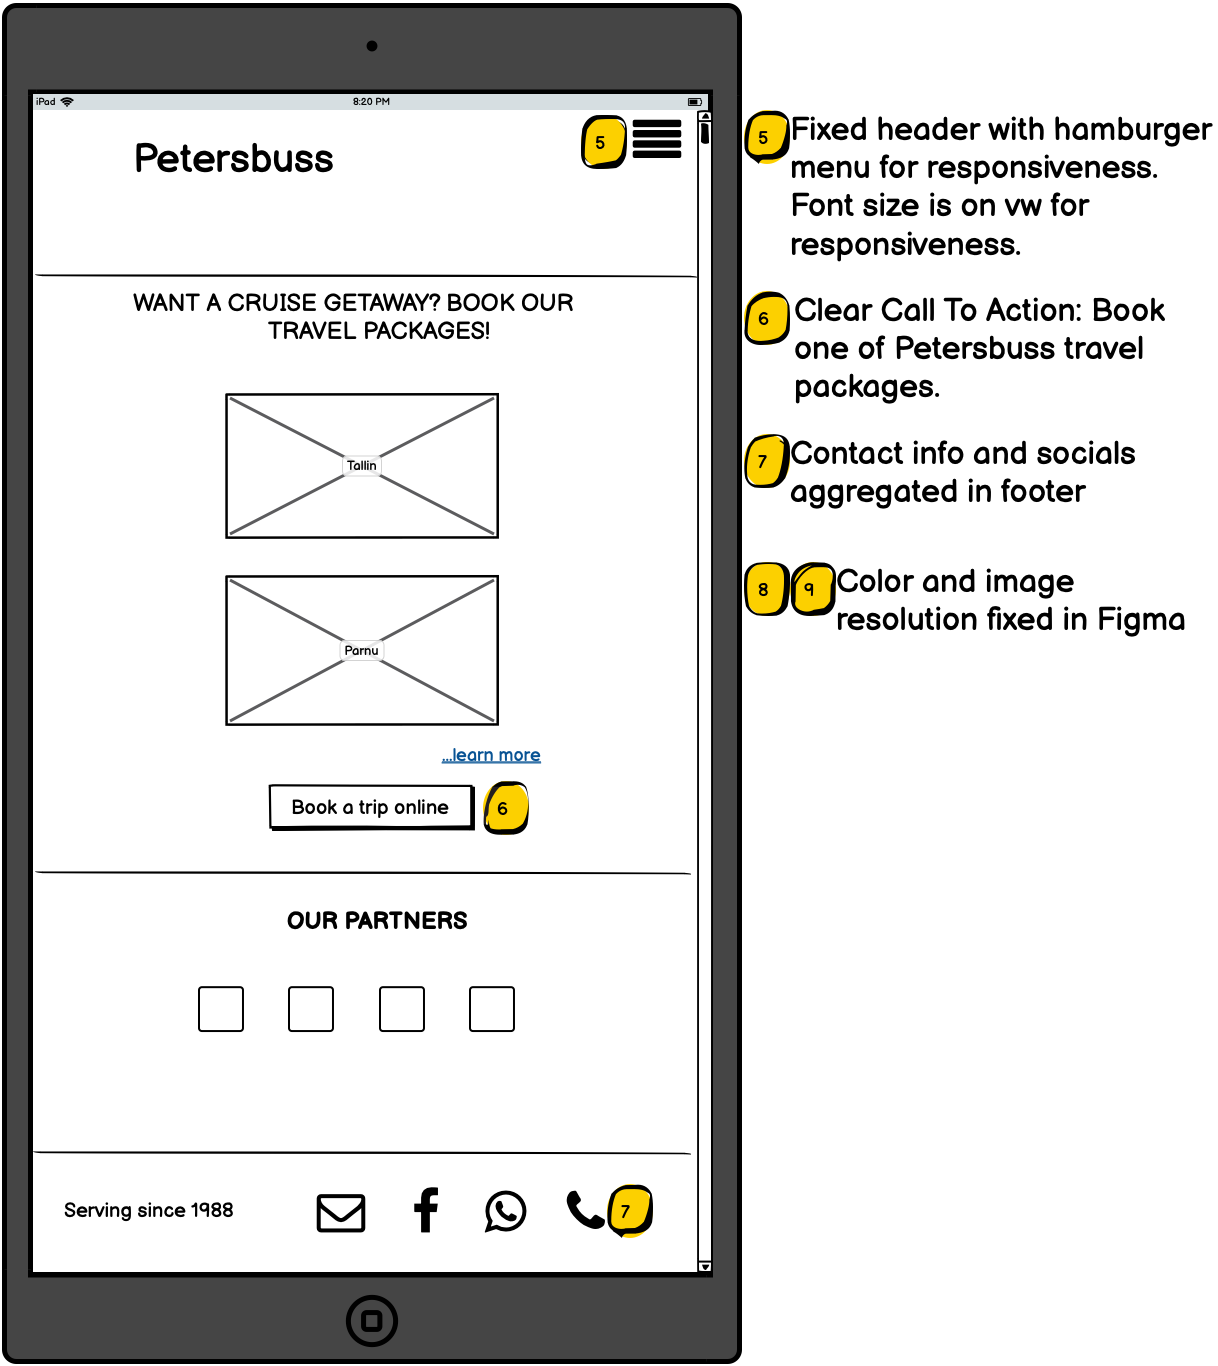
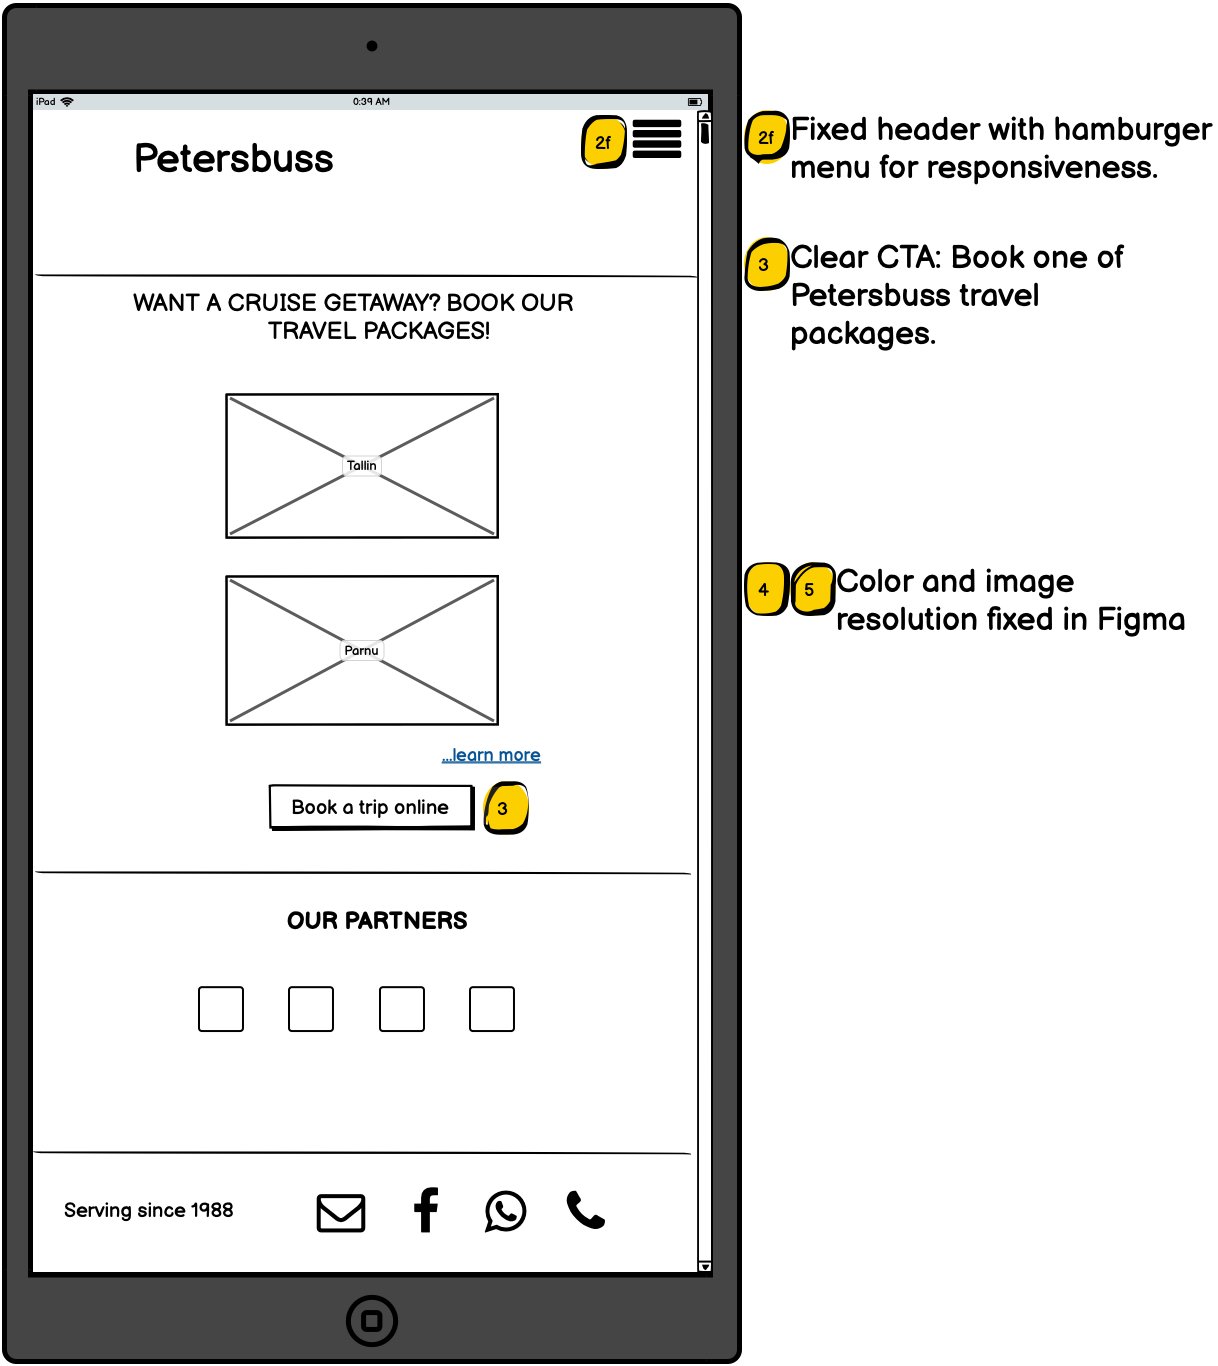
reduced problems

Changed region(s): [[0.5928, 0.123, 0.9672, 0.369], [0.4992, 0.8609, 0.5616, 0.9224]]

diff --git a/home.html b/home.html
@@ -19,15 +19,17 @@
 
 <div class="w3-container w3-padding-32" id="projects">
   <p style="color: #ffffff; font-family: DomaineDisplay, Georgia, serif;
-  font-size: 20px; text-align: center;"> Responsive Redesign is one of the projects for my UIUX class. We were assigned the task of choosing a not so good website, analyse usability, learnability, and memorability problems, create lofi and hifi prototypes and then finally recreate the website accordingly. I chose the following website and I honestly didn't even know where to start. </p>
+  font-size: 20px; text-align: center;"> In this project, I chose a Swedish travel agency website (translated below) to redesign responsively. When I first visited Peterbuss, I had no clue what it was for. After examining it, I noted down problems I had with the website. </p>
 </div>
 
 <div class="containerInterface">
   
   <div class="galleryInterface">
-    <div class="gallery">
-      <h1 class="desc"><a href="http://www.petersbuss.se/">Chosen Website: Petersbuss <i class="fa fa-external-link"></i></a></h1>
-<img class="gallery-item" style="width: 40vw; height: 30vw" src="./images/website.png" alt="Screenshot of Petersbuss website">
+    <h1 class="desc"><a href="http://www.petersbuss.se/">Chosen Website: Petersbuss <i class="fa fa-external-link"></i></a></h1>
+    <div class="galleryInterface">
+      
+<img class="gallery-item" style="width: 30vw; height: 20vw" src="./images/website.png" alt="Screenshot of Petersbuss website">
+<img class="gallery-item" style="width: 30vw; height: 20vw" src="./images/website2.png" alt="Screenshot of Petersbuss website">
     </div>
 
     <hr>
@@ -40,13 +42,9 @@
           <li style="font-family: DomaineDisplay, Georgia, serif;"><h3 class="noBackground"><b>Usability, Learnability, and Memorability</b></h3></li>
           <ol style="max-width: 85%;">
             <li><p class="bullet">There's no clear text hierarchy. Font size is sometimes too small.</p></li>
-            <li><p class="bullet">Home page is cluttered with a lot of information</p></li>
-            <li><p class="bullet">Navigation is confusing with too many links in home page.</p></li>
-            <li><p class="bullet">Webpage doesn't use common terms.</p></li>
-            <li><p class="bullet">Webpage is not responsive</p></li>
-            <li><p class="bullet">There's no clear call to action.</p></li>
-            <li><p class="bullet">The contact information is spread out.</p></li>
-<li><p class="bullet">There are too many unnecessary colors.</p></li>
+            <li><p class="bullet">Home page is cluttered with a lot of unsegregated information making navigation hard</p></li>
+            <li><p class="bullet">The objective of the website (CTA) is not clear.</p></li>
+            <li><p class="bullet">There are too many unnecessary colors.</p></li>
           <li><p class="bullet">The images on the home page are low resolution and have distracting backgrounds</p></li>
 
 </ol>
@@ -56,7 +54,7 @@
           <li><p class="bullet">Missing alt text for images due to which screen reader cannot interpret correctly.</p></li>
 
 <li><p class="bullet">Very low contrast</p></li>
-        <li><p class="bullet">No heading structure and page regions to provide navigation functionality to assistive technology users</p></li>
+        <li><p class="bullet">No page regions to provide navigation functionality to assistive technology users</p></li>
 
 </ol>         
         </ul>
@@ -66,7 +64,7 @@
 
  <div class="gallery">
   <h1 class="desc">Lofi Wireframes for Desktop, Tablet and Mobile</h1>
-  <h4 class="desc">After analyzing the problems, I created a general structure and layout for functionality.</h4>
+  <h4 class="desc">After analyzing the problems, I created a general structure and layout for functionality of the website to be redesigned.</h4>
 </div>
  <div class="container">
   
@@ -90,14 +88,13 @@
 
 <div>
   <h1 class="desc">Hifi Prototyping for Desktop, Tablet and Mobile</h1>
-  <h4 class="desc">After lofi wireframes, I created a mockup of how I wanted the website to look and function like using Figma</h4>
+  <h4 class="desc">After lofi wireframes, I created a mockup of how I wanted the website to look and function like using Figma.</h4>
 </div>
 <div class="container">
   
   <div class="gallery">
     <h3 class="desc"><a href="https://www.figma.com/file/FDUmTXgw4nM9WsyFj7hBOr/Desktop?node-id=0%3A1">Desktop Prototype <i class="fa fa-external-link"></i></a></h3>
-    <iframe style="border: 1px solid rgba(0, 0, 0, 0.1);" width="800" height="450" src="https://www.figma.com/embed?embed_host=share&url=https%3A%2F%2Fwww.figma.com%2Fproto%2FFDUmTXgw4nM9WsyFj7hBOr%2FDesktop%3Fnode-id%3D1%253A2%26scaling%3Dscale-down" allowfullscreen></iframe>  </div>
-
+    <iframe style="border: 1px solid rgba(0, 0, 0, 0.1);" width="800" height="450" src="https://www.figma.com/embed?embed_host=share&url=https%3A%2F%2Fwww.figma.com%2Fproto%2FFDUmTXgw4nM9WsyFj7hBOr%2FDesktop%3Fnode-id%3D1%253A2%26scaling%3Dscale-down" allowfullscreen></iframe> </div>
   <div class="gallery">  
     <h3 class="desc"><a href="https://www.figma.com/file/W4X9zkbHBDysQAMPGY2X4T/Tablet?node-id=0%3A1">Tablet Prototype <i class="fa fa-external-link"></i></a></h3>
     <iframe style="border: 1px solid rgba(0, 0, 0, 0.1);" width="800" height="450" src="https://www.figma.com/embed?embed_host=share&url=https%3A%2F%2Fwww.figma.com%2Fproto%2FW4X9zkbHBDysQAMPGY2X4T%2FTablet%3Fscaling%3Dscale-down%26node-id%3D15%253A2" allowfullscreen></iframe>  </div>
@@ -110,15 +107,14 @@
 
    <div>
     <h1 class="desc">Visual Design Style</h1>
-    <h4 class="desc">I assembled all the colors, fonts, and UI elements I use on the redesigned website</h4>
+    <h4 class="desc">In case someone wants to use the website I redesigned, this style guide has all the elements needed.</h4>
   </div>
   <div class="container">
     
     <div class="gallery">
       <h3 class="desc"><a href="https://xd.adobe.com/view/0f2ba743-5841-4cce-a4eb-9aabda407ec4-5a78/?fullscreen">Visual Design Guide <i class="fa fa-external-link"></i></a></h3>
-      <iframe width="800" height="2000" src="https://xd.adobe.com/embed/0f2ba743-5841-4cce-a4eb-9aabda407ec4-5a78/?fullscreen" frameborder="0" allowfullscreen></iframe>   </div>
-     </div>
-  
+      <iframe width="800" height="2000" src="https://xd.adobe.com/embed/0f2ba743-5841-4cce-a4eb-9aabda407ec4-5a78/?fullscreen" frameborder="0" allowfullscreen style="padding-left: 15px; padding-right: 15px;"></iframe>     </div>
+  </div>
      <hr>
 
    <div>
